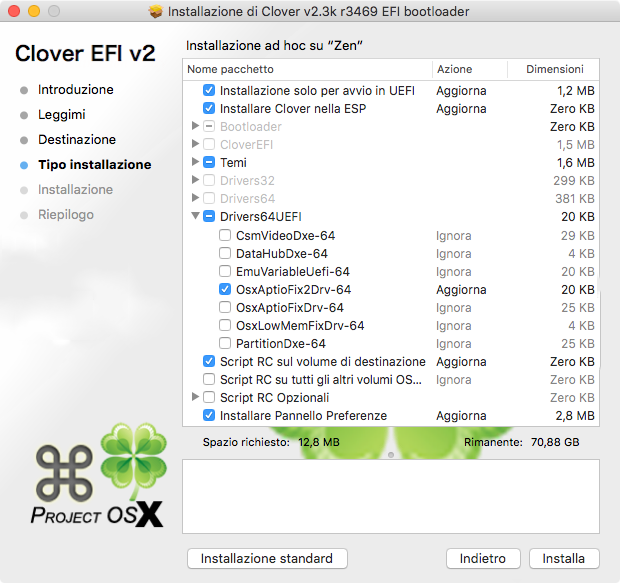
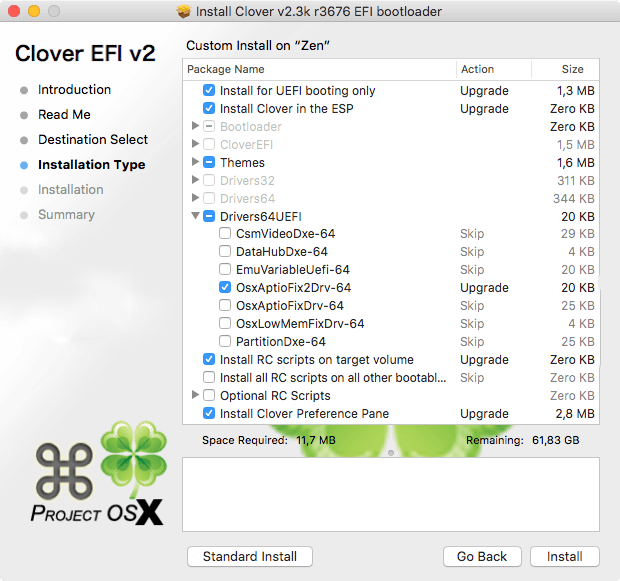
translate Clover installation screenshot to English

diff --git a/README.md b/README.md
@@ -37,7 +37,7 @@ You can also check under OS X with the preinstalled System Information.app, DCPI
 
 ### How to install Clover
 - (The drivers included in *EFI/CLOVER/drivers64UEFI* are only the ones *not* bundled with the installer of Clover)
-- I install Clover with these configuration (sorry for the Italian screenshot):
+- I install Clover with these configuration:
 
 ![Clover configuration screenshot](/screenshots/clover-setup-info.png)
 
